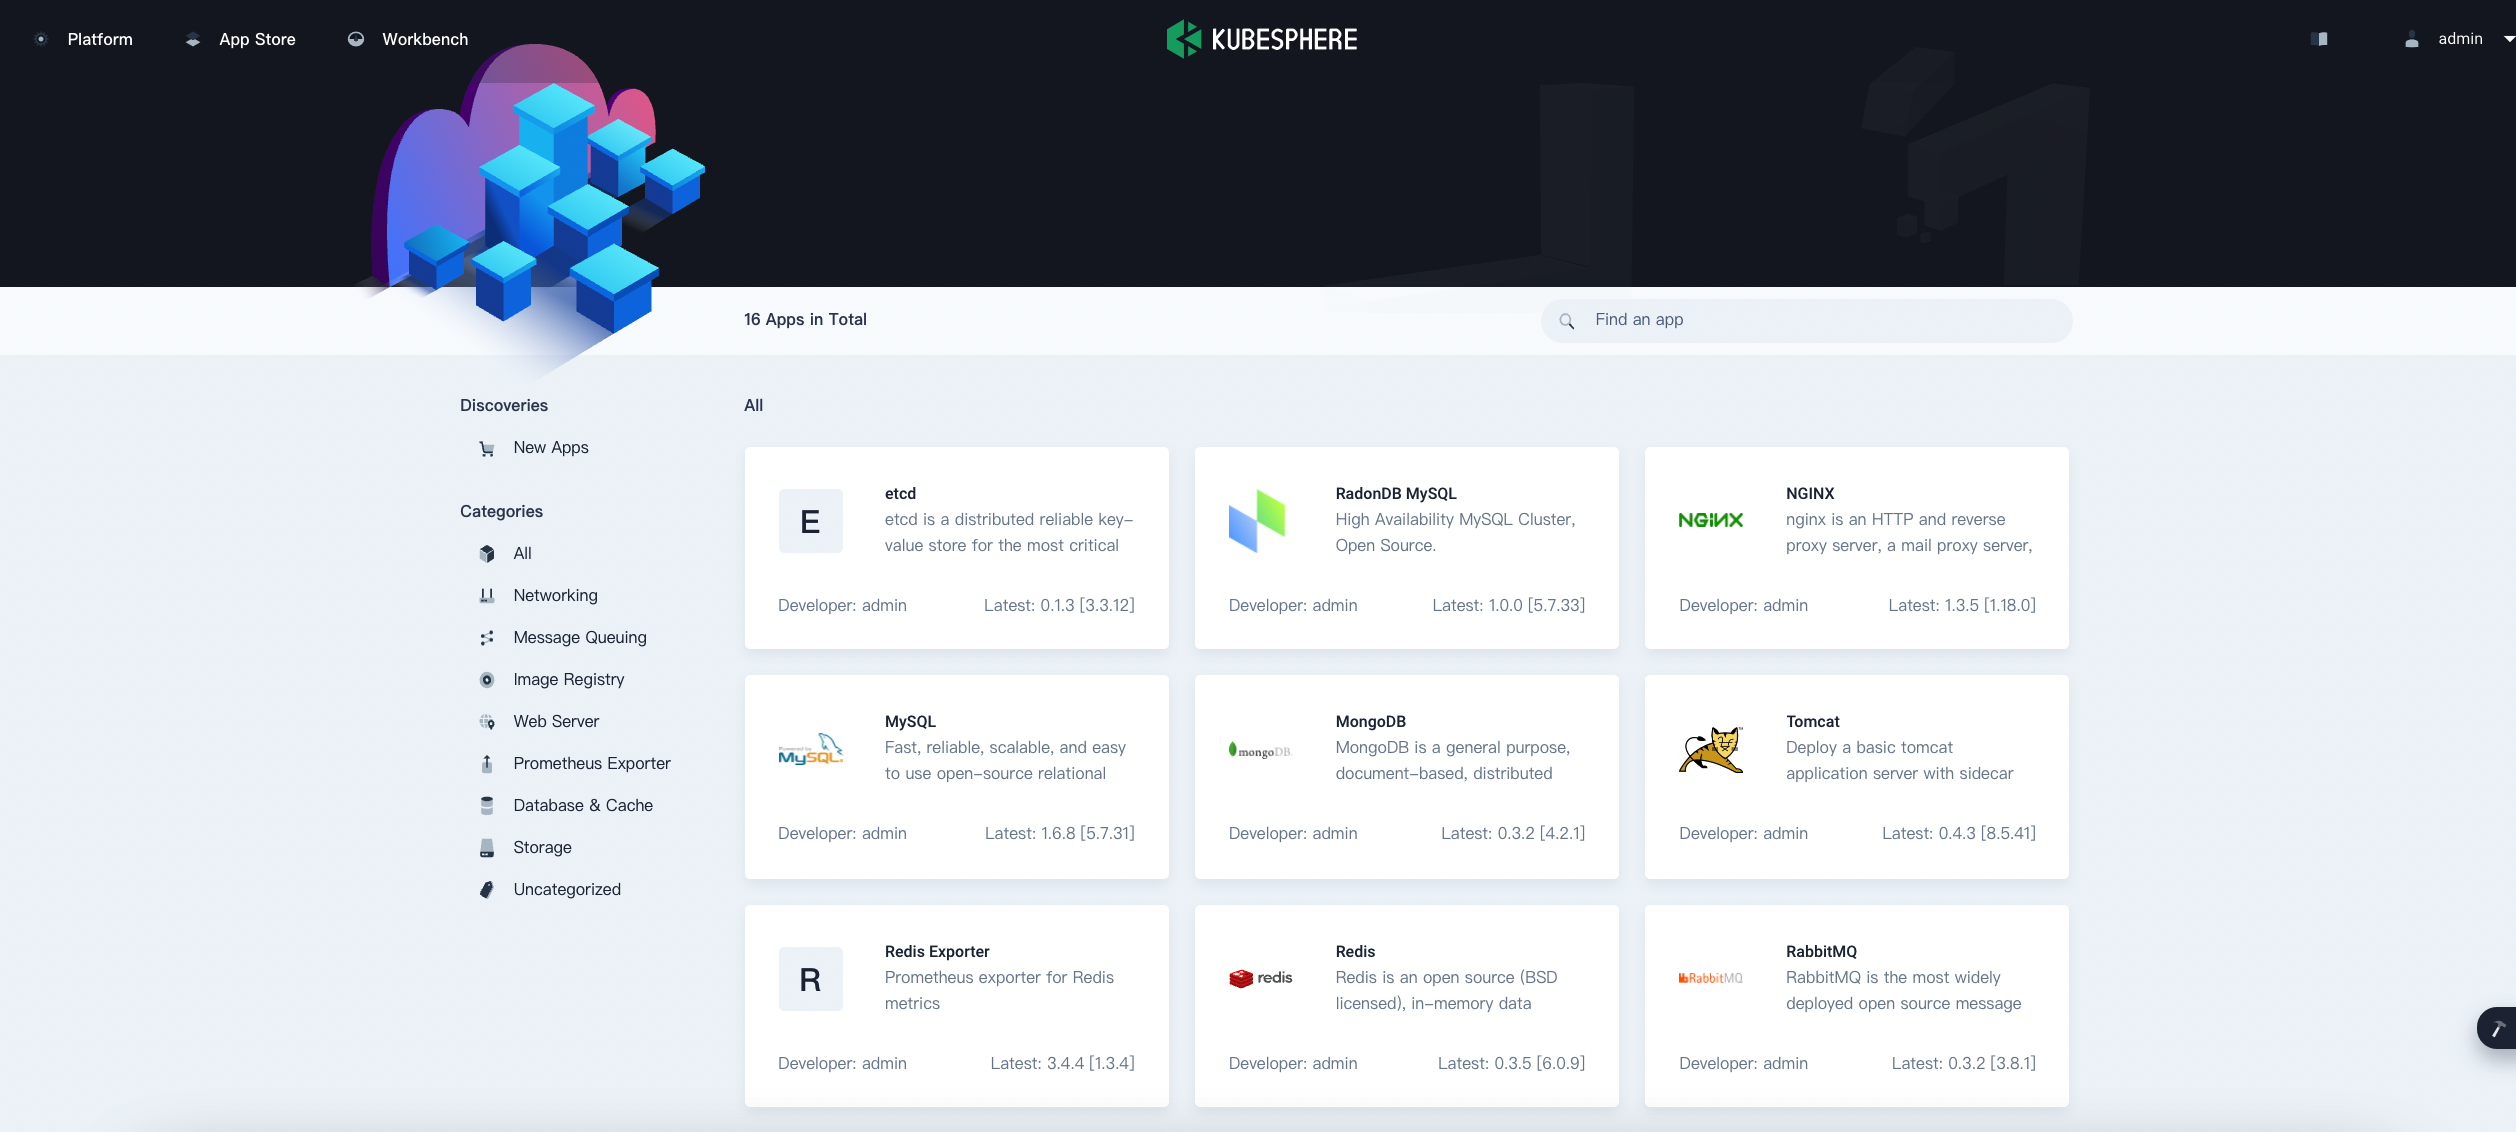
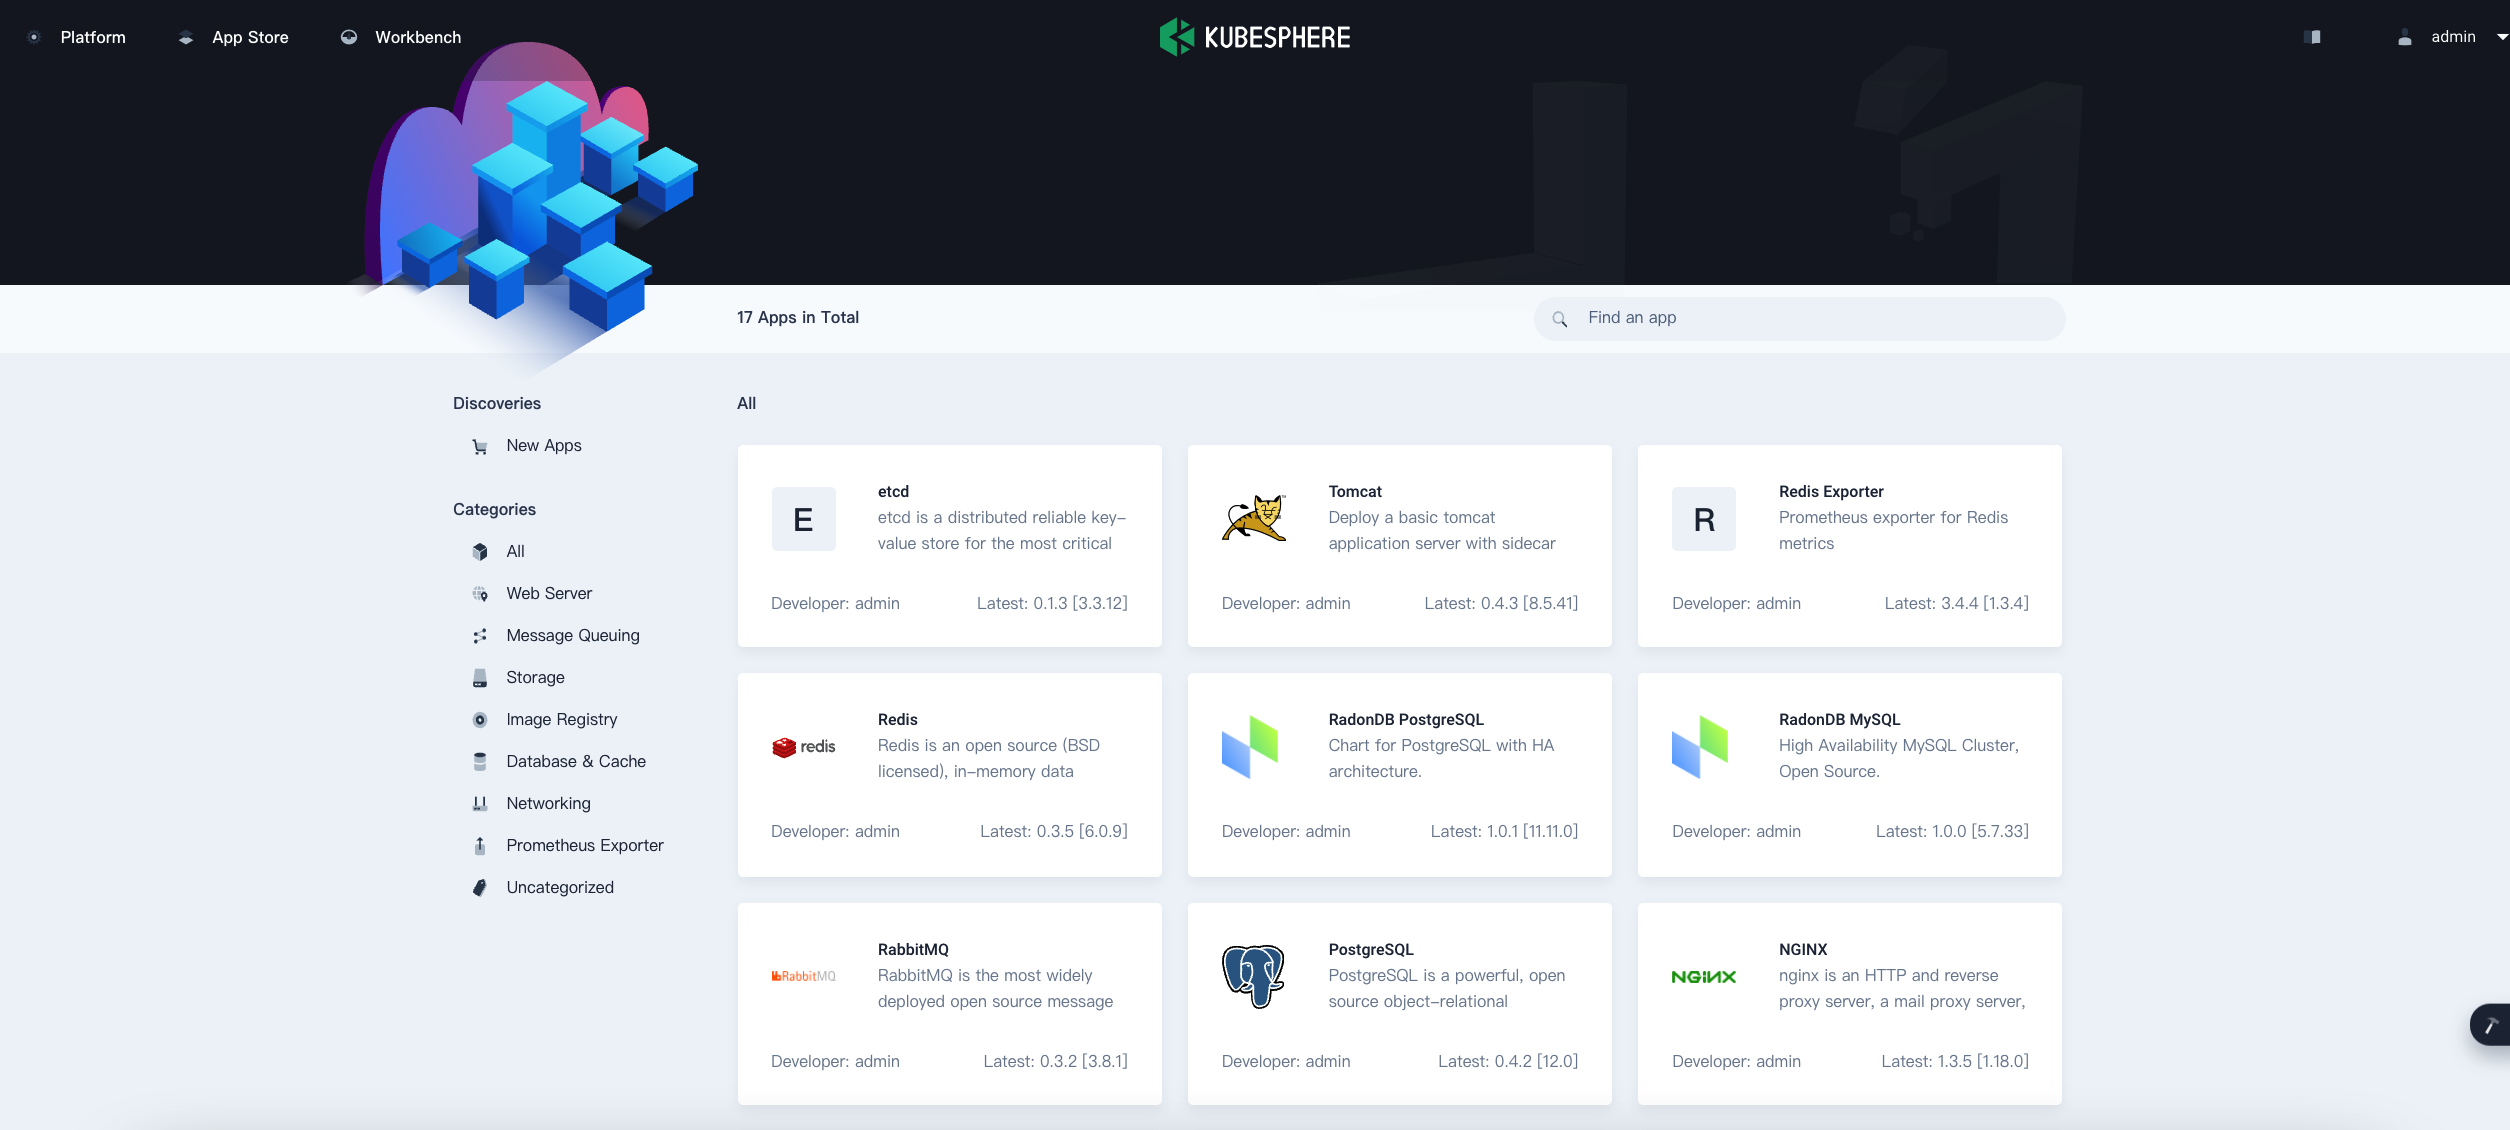
Update App Number and Image

diff --git a/content/en/docs/pluggable-components/app-store.md b/content/en/docs/pluggable-components/app-store.md
@@ -8,7 +8,7 @@ weight: 6200
 
 As an open-source and app-centric container platform, KubeSphere provides users with a Helm-based App Store for application lifecycle management on the back of [OpenPitrix](https://github.com/openpitrix/openpitrix), an open-source web-based system to package, deploy and manage different types of apps. The KubeSphere App Store allows ISVs, developers and users to upload, test, deploy and release apps with just several clicks in a one-stop shop.
 
-Internally, the KubeSphere App Store can serve as a place for different teams to share data, middleware, and office applications. Externally, it is conducive to setting industry standards of building and delivery. By default, there are 16 built-in apps in the App Store. After you enable this feature, you can add more apps with app templates.
+Internally, the KubeSphere App Store can serve as a place for different teams to share data, middleware, and office applications. Externally, it is conducive to setting industry standards of building and delivery. By default, there are 17 built-in apps in the App Store. After you enable this feature, you can add more apps with app templates.
 
 ![app-store](/images/docs/enable-pluggable-components/kubesphere-app-store/app-store.png)
 
@@ -106,7 +106,7 @@ You can find the web kubectl tool by clicking <img src="/images/docs/enable-plug
 
 ## Verify the Installation of the Component
 
-After you log in to the console, if you can see **App Store** in the top-left corner and 16 built-in apps in it, it means the installation is successful.
+After you log in to the console, if you can see **App Store** in the top-left corner and 17 built-in apps in it, it means the installation is successful.
 
 ![app-store](/images/docs/enable-pluggable-components/kubesphere-app-store/app-store.png)
 

diff --git a/content/zh/docs/pluggable-components/app-store.md b/content/zh/docs/pluggable-components/app-store.md
@@ -8,7 +8,7 @@ weight: 6200
 
 作为一个开源的、以应用为中心的容器平台，KubeSphere 在 [OpenPitrix](https://github.com/openpitrix/openpitrix) 的基础上，为用户提供了一个基于 Helm 的应用商店，用于应用生命周期管理。OpenPitrix 是一个开源的 Web 平台，用于打包、部署和管理不同类型的应用。KubeSphere 应用商店让 ISV、开发者和用户能够在一站式服务中只需点击几下就可以上传、测试、部署和发布应用。
 
-对内，KubeSphere 应用商店可以作为不同团队共享数据、中间件和办公应用的场所。对外，有利于设立构建和交付的行业标准。默认情况下，应用商店中内置了 16 个应用。启用该功能后，您可以通过应用模板添加更多应用。
+对内，KubeSphere 应用商店可以作为不同团队共享数据、中间件和办公应用的场所。对外，有利于设立构建和交付的行业标准。默认情况下，应用商店中内置了 17 个应用。启用该功能后，您可以通过应用模板添加更多应用。
 
 ![app-store](/images/docs/zh-cn/enable-pluggable-components/kubesphere-app-store/app-store-page.png)
 
@@ -103,7 +103,7 @@ weight: 6200
 
 ## 验证组件的安装
 
-在您登录控制台后，如果您能看到页面左上角的**应用商店**以及其中的 16 个内置应用，则说明安装成功。
+在您登录控制台后，如果您能看到页面左上角的**应用商店**以及其中的 17 个内置应用，则说明安装成功。
 
 ![app-store](/images/docs/zh-cn/enable-pluggable-components/kubesphere-app-store/app-store-page.png)
 

diff --git a/content/en/docs/faq/applications/remove-built-in-apps.md b/content/en/docs/faq/applications/remove-built-in-apps.md
@@ -6,7 +6,7 @@ linkTitle: "Remove Built-in Apps in KubeSphere"
 Weight: 16910
 ---
 
-As an open source and app-centric container platform, KubeSphere integrates 16 built-in apps in the App Store that is based on [OpenPitrix](https://github.com/openpitrix/openpitrix). They are accessible to all tenants in a workspace, while you can also remove them from the App Store. This tutorial demonstrates how to remove a built-in app from the App Store.
+As an open source and app-centric container platform, KubeSphere integrates 17 built-in apps in the App Store that is based on [OpenPitrix](https://github.com/openpitrix/openpitrix). They are accessible to all tenants in a workspace, while you can also remove them from the App Store. This tutorial demonstrates how to remove a built-in app from the App Store.
 
 ## Prerequisites
 
@@ -17,7 +17,7 @@ As an open source and app-centric container platform, KubeSphere integrates 16 b
 
 1. Log in to the web console of KubeSphere as `admin`, click **Platform** in the upper-left corner, and then select **App Store Management**.
 
-2. On the **App Store** page, you can see all 16 built-in apps in the list. Select an app that you want to remove from the App Store. For example, click **Tomcat** to go to its detail page.
+2. On the **App Store** page, you can see all 17 built-in apps in the list. Select an app that you want to remove from the App Store. For example, click **Tomcat** to go to its detail page.
 
    ![click-tomcat](/images/docs/faq/applications/remove-built-in-apps/click_tomcat.png)
 

diff --git a/content/zh/docs/faq/applications/remove-built-in-apps.md b/content/zh/docs/faq/applications/remove-built-in-apps.md
@@ -6,7 +6,7 @@ linkTitle: "移除 KubeSphere 中的内置应用"
 Weight: 16910
 ---
 
-作为一个以应用为中心的开源容器平台，KubeSphere 在基于 [OpenPitrix](https://github.com/openpitrix/openpitrix) 的应用商店中集成了 16 个内置应用。这些应用可供企业空间内的所有租户使用，但您也可以将这些应用从应用商店中移除。本教程为您演示怎样从应用商店中移除内置应用。
+作为一个以应用为中心的开源容器平台，KubeSphere 在基于 [OpenPitrix](https://github.com/openpitrix/openpitrix) 的应用商店中集成了 17 个内置应用。这些应用可供企业空间内的所有租户使用，但您也可以将这些应用从应用商店中移除。本教程为您演示怎样从应用商店中移除内置应用。
 
 ## 准备工作
 
@@ -17,7 +17,7 @@ Weight: 16910
 
 1. 以 `admin` 身份登录 Web 控制台，点击左上角**平台管理**，然后选择**应用商店管理**。
 
-2. 在**应用商店**页面，您可以看到列表中展示了 16 个内置应用。选择您想要从应用商店中移除的应用，例如，点击 **Tomcat** 跳转到其详情页面。
+2. 在**应用商店**页面，您可以看到列表中展示了 17 个内置应用。选择您想要从应用商店中移除的应用，例如，点击 **Tomcat** 跳转到其详情页面。
 
    ![click-tomcat](/images/docs/zh-cn/faq/applications/remove-built-in-apps/click-tomcat.png)
 
